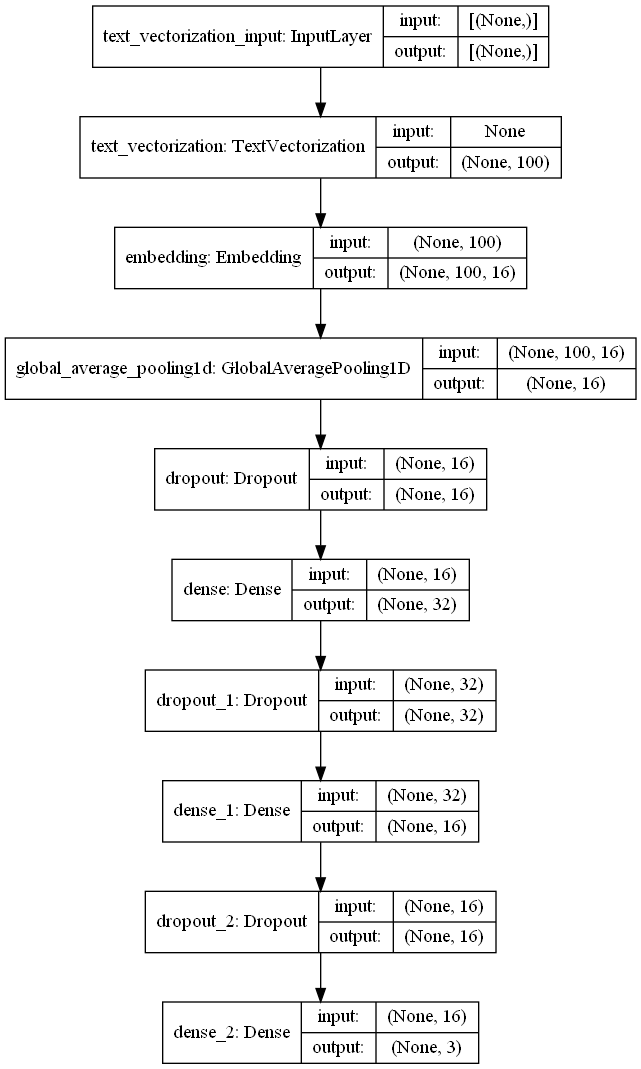
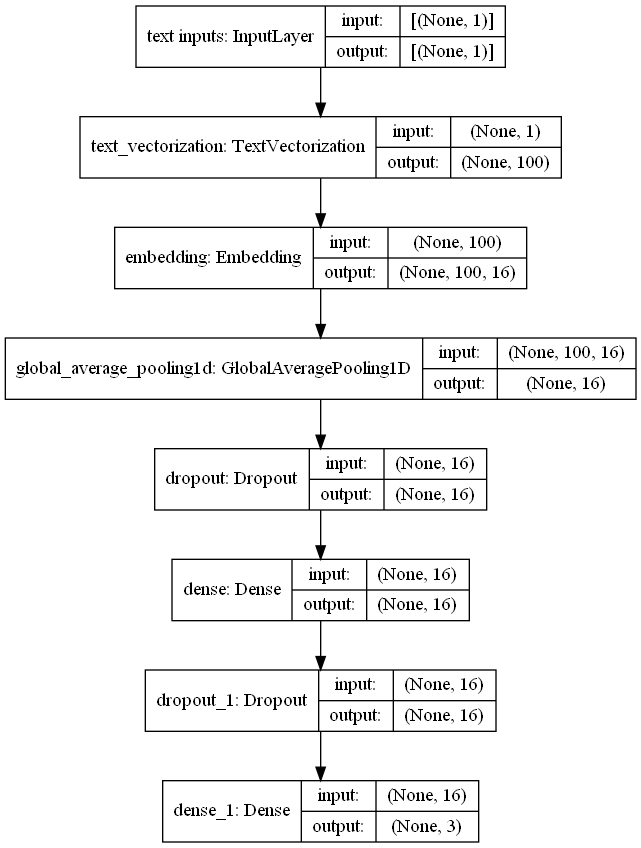
Functional API

Changed region(s): [[0.0, 0.0, 0.9984, 0.4906], [0.2184, 0.5212, 0.78, 1.0], [0.1248, 0.0, 0.156, 0.0307]]

diff --git a/word-embedding/hate_speech_detector_functional.py b/word-embedding/hate_speech_detector_functional.py
@@ -1,4 +1,7 @@
 import os
+
+import keras.backend
+
 from data_preprocessor import *
 from tensorflow.keras.layers import Input, Embedding, GlobalAveragePooling1D, Dense
 from tensorflow.keras.layers import BatchNormalization, Dropout
@@ -78,44 +81,40 @@ y_test = to_one_hot(y_test)
 # Debug
 # print(train_labels, test_labels)
 
-# 텍스트 벡터화
-vectorize_layer = TextVectorization(
+# 텍스트 벡터화 레이어 정의
+vectorize = TextVectorization(
     input_shape=(1,),
     max_tokens=vocab_size,
     output_mode='int',
     output_sequence_length=sequence_length
 )
-vectorize_layer.adapt(x_train)
+vectorize.adapt(x_train)
+
+# 입력 레이어
+inputs = Input(shape=(1,), dtype=tf.string, name="text inputs")
+
+y = vectorize(inputs)
 
 # word2vec
-# y = Embedding(
-#     input_dim=vocab_size,
-#     output_dim=embedding_dim
-# )(vectorize_layer)
-#
-# # Sequential Model -> Functional API
-# y = GlobalAveragePooling1D()(y)
-# y = Dense(
-#     16,
-#     activation='relu'
-# )(y)
-# outputs = Dense(
-#     3,
-#     activation='softmax'
-# )(y)
-#
-# model = Model(inputs=vectorize_layer, outputs=outputs)
-model = Sequential([
-    vectorize_layer,
-    Embedding(vocab_size, embedding_dim, name="embedding"),
-    GlobalAveragePooling1D(),
-    Dropout(dropout_prob),
-    Dense(32, activation='relu'),
-    Dropout(dropout_prob),
-    Dense(16, activation='relu'),
-    Dropout(dropout_prob),
-    Dense(3, activation='softmax')
-])
+y = Embedding(
+    input_dim=vocab_size,
+    output_dim=embedding_dim
+)(y)
+
+# Sequential Model -> Functional API
+y = GlobalAveragePooling1D()(y)
+y = Dropout(dropout_prob)(y)
+y = Dense(
+    16,
+    activation='relu'
+)(y)
+y = Dropout(dropout_prob)(y)
+outputs = Dense(
+    3,
+    activation='softmax'
+)(y)
+
+model = Model(inputs=inputs, outputs=outputs)
 
 # 모델 요약
 model.summary()

diff --git a/word-embedding/data_preprocessor.py b/word-embedding/data_preprocessor.py
@@ -3,6 +3,12 @@ import numpy as np
 from kiwipiepy import Kiwi
 from tensorflow.keras.utils import to_categorical
 
+# Constants
+valid_tag_list = [
+    "NNG", "NNP", "VV", "VA", "VCP", "VCN", "SW",
+    "MM", "MAG", "IC", "XPN", "XR", "SN", "UN"
+]
+
 
 def read_data(dir):
     '''
@@ -12,7 +18,7 @@ def read_data(dir):
     :return: 읽은 데이터
     '''
     data = pd.read_csv(dir)
-    data.fillna("")
+    data.dropna()
     return data
 
 
@@ -89,10 +95,11 @@ def interpret_kiwi_analysis(kiwi_output):
     '''
     kiwi의 분석 결과에서 단어들만 뽑아내어, 띄어쓰기로 이어진 문자열을 만듭니다.
 
-    :param kiwi_output: kiwi model의 분석 결과
+    :param kiwi_output: kiwi model의 분석 결과 (tuple의 리스트)
     :return: 띄어쓰기로 이어진 문자열
     '''
-    return ' '.join(map(lambda x: x[0], kiwi_output[0][0]))
+    tag_filter = filter(lambda x: x[1] in valid_tag_list, kiwi_output)
+    return ' '.join(map(lambda x: x[0], tag_filter))
 
 
 def parsing_data(data, kiwi):
@@ -105,7 +112,7 @@ def parsing_data(data, kiwi):
     '''
     # 분석 및 결과 np array 출력
     analysis = [kiwi.analyze(datum) for datum in data]
-    return np.array([*map(lambda x: interpret_kiwi_analysis(x), analysis)])
+    return np.array([*map(lambda x: interpret_kiwi_analysis(x[0][0]), analysis)])
 
 
 def to_one_hot(data):
